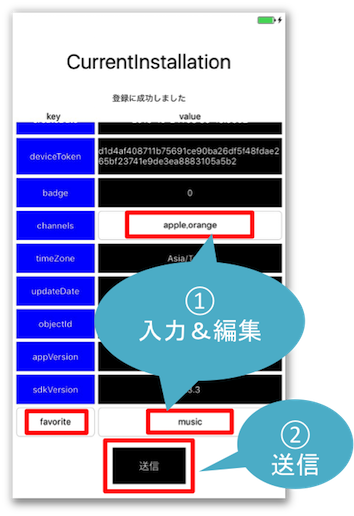
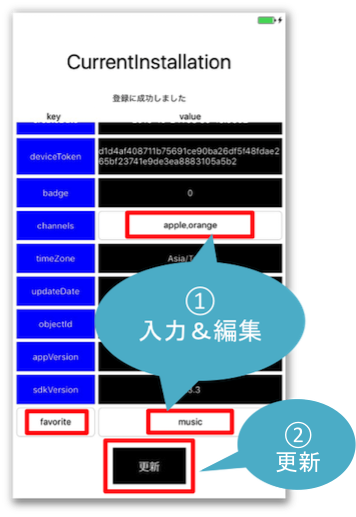
fix readme and postInstallation

diff --git a/ObjcSegmentPushApp/ViewController.m b/ObjcSegmentPushApp/ViewController.m
@@ -252,6 +252,12 @@
  */
 - (void)postInstallation:(id)sender {
     
+    // 追加フィールドにvalueだけセットされてkeyには何もセットされていない場合
+    if (![self.addFieldManager.valueStr isEqualToString:@""] && [self.addFieldManager.keyStr isEqualToString:@""]) {
+        self.statusLabel.text = @"key,valueをセットで入力してください";
+        return;
+    }
+    
     // 追加用セルをinstallationにセットする
     if (self.addFieldManager.keyStr && ![self.addFieldManager.keyStr isEqualToString:@""]) {
         // keyに値が設定されていた場合
@@ -266,11 +272,11 @@
     // installationを更新
     [self.installation saveInBackgroundWithBlock:^(NSError *error) {
         if(!error){
-            self.statusLabel.text = [NSString stringWithFormat:@"保存に成功しました"];
+            self.statusLabel.text = [NSString stringWithFormat:@"更新に成功しました"];
             // tableViewの内容を更新
             [self getInstallation];
         } else {
-            self.statusLabel.text = [NSString stringWithFormat:@"保存に失敗しました:%ld",(long)error.code];
+            self.statusLabel.text = [NSString stringWithFormat:@"更新に失敗しました:%ld",(long)error.code];
         }
     }];
 }
